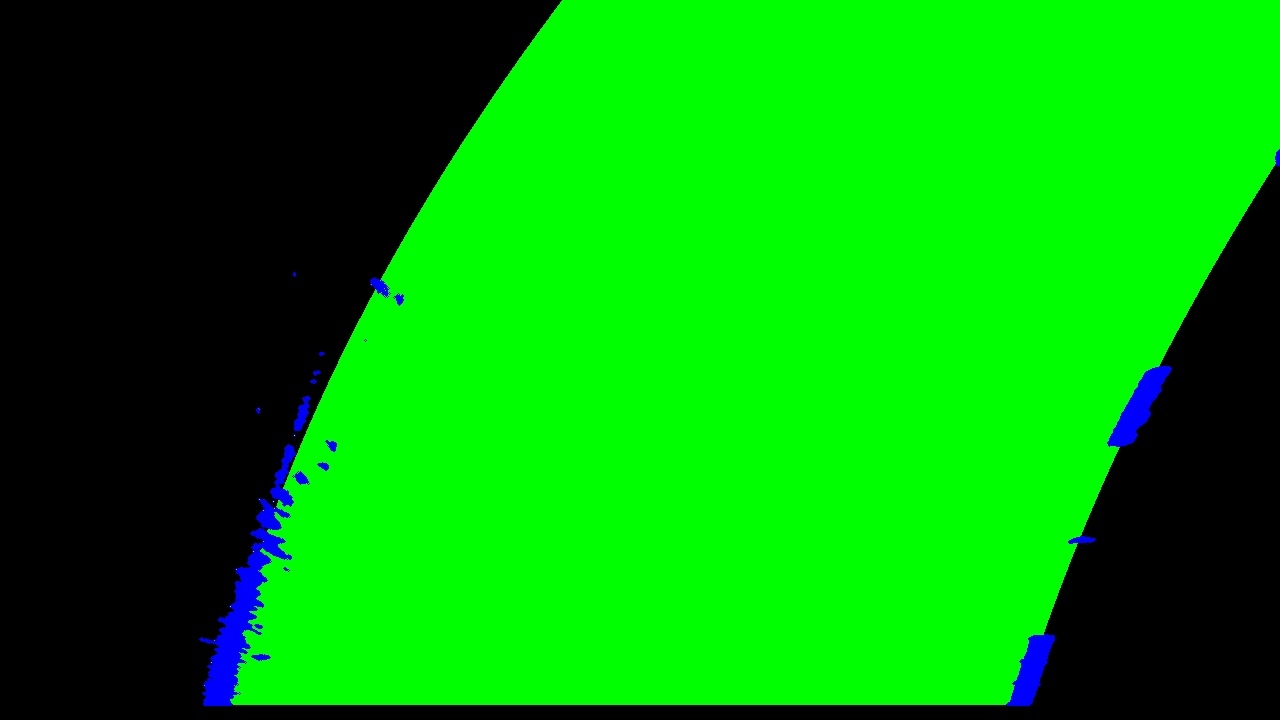
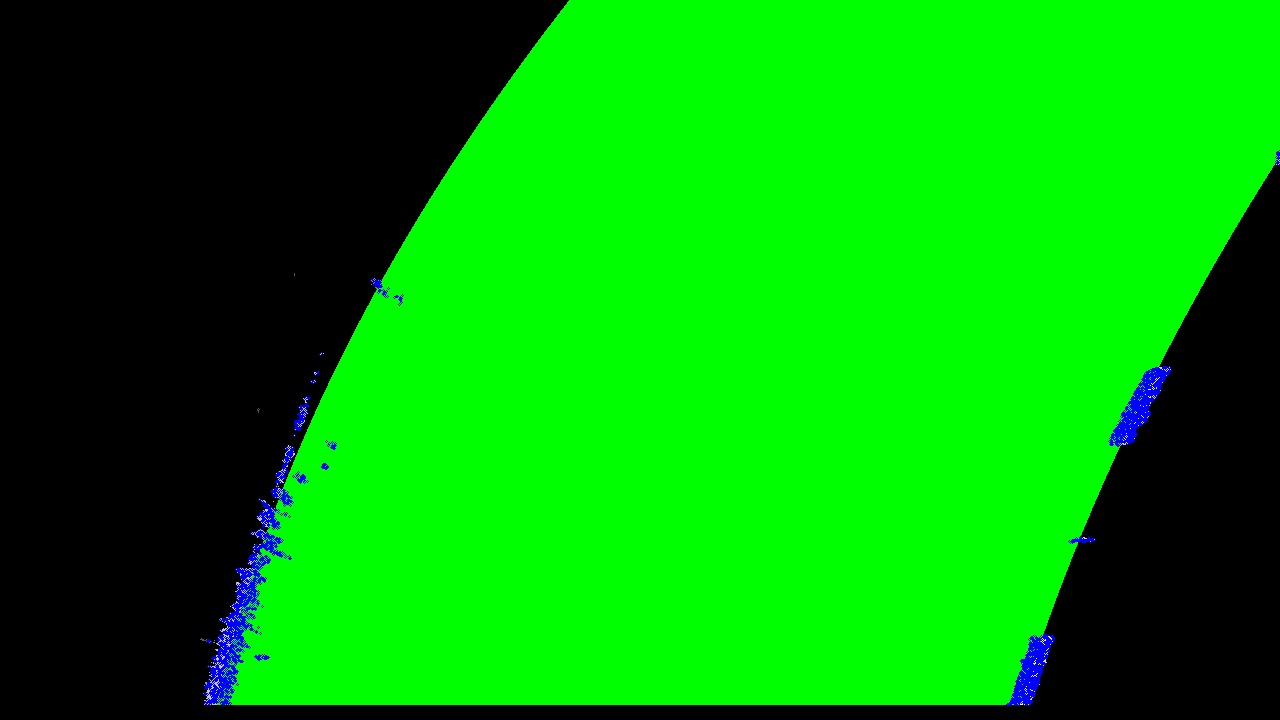
Add sampling lane points to match to reduce frame processing time

diff --git a/lane_detector.py b/lane_detector.py
@@ -20,7 +20,7 @@ class BufferedPolyFit:
             np.concatenate(self.x_buffer),
             np.concatenate(self.y_buffer),
             self.order,
-            w=sum([[i+1]*len(self.x_buffer[i]) for i in range(len(self.x_buffer))], [])
+            #w=sum([[i+1]*len(self.x_buffer[i]) for i in range(len(self.x_buffer))], [])
         ))
 
     def fit(self, x, y):
@@ -59,6 +59,9 @@ class LaneDetector:
 
     def get_lane_points(self, img, offset=0):
         y, x = np.nonzero(img)
+        i = np.random.choice(len(x), 2000)
+        y = y[i]
+        x = x[i]        
         
         keep = [np.array([], np.uint8), np.array([], np.uint8)]
         discard = [np.array([], np.uint8), np.array([], np.uint8)]
@@ -70,7 +73,7 @@ class LaneDetector:
             if not len(in_row):
                 continue
 
-            if np.std(x[in_row]) < 50:
+            if np.std(x[in_row]) < 100:
                 keep[0] = np.concatenate((keep[0], y[in_row]))
                 keep[1] = np.concatenate((keep[1], x[in_row]))
             else:
